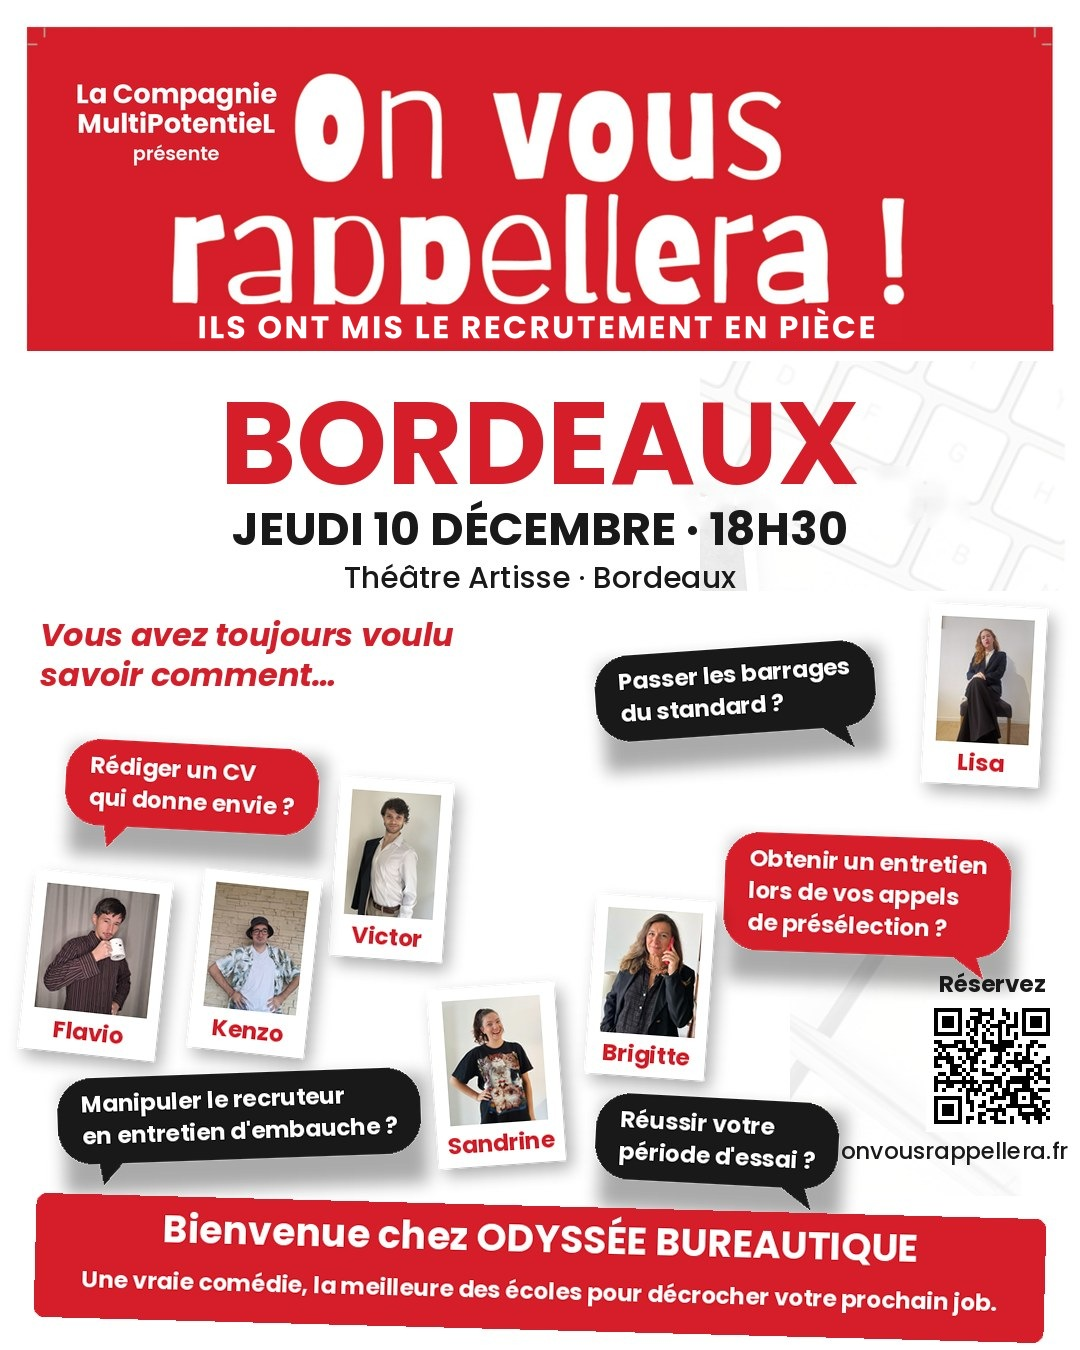
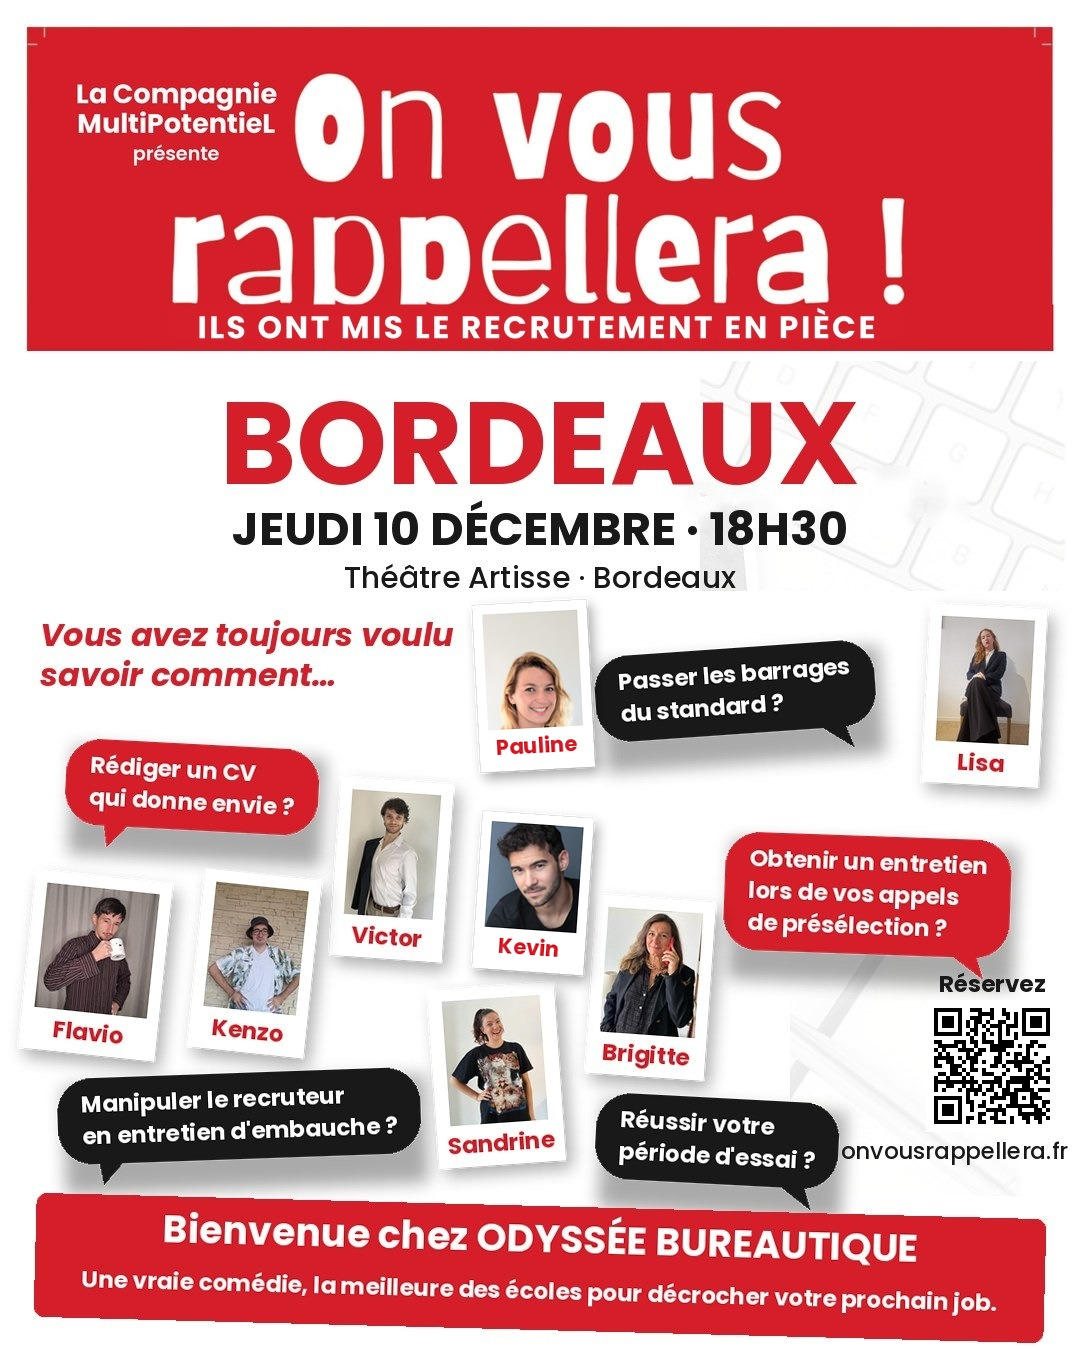
Affiches Bordeaux : ajout de Pauline et Kevin
Claude-Session: https://claude.ai/code/session_01Mm1mn477FPmfympm7mpipM

Changed region(s): [[0.4278, 0.4356, 0.5806, 0.7467]]

diff --git a/affiches.html b/affiches.html
@@ -1,3 +1,3 @@
 <!doctype html><html lang="fr"><head><meta charset="utf-8"><meta name="viewport" content="width=device-width,initial-scale=1"><meta name="robots" content="noindex"><title>Les affiches des troupes — On Vous Rappellera</title>
 <style>body{margin:0;background:#fff;color:#191919;font-family:Poppins,Arial,sans-serif}main{max-width:1180px;margin:0 auto;padding:24px 16px 60px}h1{color:#d51e29;font-size:1.7rem;margin:.2rem 0 .3rem}p.intro{margin:0 0 1.6rem;color:#4a463f}.grid{display:grid;grid-template-columns:repeat(auto-fill,minmax(320px,1fr));gap:28px}figure{margin:0}figure h2{font-size:1.05rem;margin:0 0 .5rem;color:#d51e29}figure h2 span{color:#191919;font-weight:600}img{width:100%;height:auto;display:block;border:1px solid #ddd;border-radius:6px}figcaption{margin-top:.45rem}figcaption a{color:#0b57d0;text-decoration:underline}@media(max-width:700px){.grid{grid-template-columns:1fr}}</style></head>
-<body><main><h1>Les affiches de <b>ON VOUS RAPPELLERA</b></h1><p class="intro">Une affiche par représentation, avec la troupe qui joue ce soir-là. Cliquez sur une affiche pour l'ouvrir en grand, ou téléchargez-la pour la partager.</p><div class="grid"><figure><h2>TOULOUSE <span>Mercredi 2 décembre · 20h</span></h2><a href="assets/affiches/affiche-toulouse-0212-20h.jpg" target="_blank" rel="noopener"><img src="assets/affiches/affiche-toulouse-0212-20h.jpg" alt="Affiche TOULOUSE Mercredi 2 décembre · 20h" loading="lazy"></a><figcaption><a href="assets/affiches/affiche-toulouse-0212-20h.jpg" download>Télécharger l'affiche</a></figcaption></figure><figure><h2>RENNES <span>Mercredi 9 décembre · 20h</span></h2><a href="assets/affiches/affiche-rennes-0912-20h.jpg" target="_blank" rel="noopener"><img src="assets/affiches/affiche-rennes-0912-20h.jpg" alt="Affiche RENNES Mercredi 9 décembre · 20h" loading="lazy"></a><figcaption><a href="assets/affiches/affiche-rennes-0912-20h.jpg" download>Télécharger l'affiche</a></figcaption></figure><figure><h2>BORDEAUX <span>Jeudi 10 décembre · 18h30</span></h2><a href="assets/affiches/affiche-bordeaux-1012-1830.jpg" target="_blank" rel="noopener"><img src="assets/affiches/affiche-bordeaux-1012-1830.jpg" alt="Affiche BORDEAUX Jeudi 10 décembre · 18h30" loading="lazy"></a><figcaption><a href="assets/affiches/affiche-bordeaux-1012-1830.jpg" download>Télécharger l'affiche</a></figcaption></figure><figure><h2>BORDEAUX <span>Jeudi 10 décembre · 20h30</span></h2><a href="assets/affiches/affiche-bordeaux-1012-2030.jpg" target="_blank" rel="noopener"><img src="assets/affiches/affiche-bordeaux-1012-2030.jpg" alt="Affiche BORDEAUX Jeudi 10 décembre · 20h30" loading="lazy"></a><figcaption><a href="assets/affiches/affiche-bordeaux-1012-2030.jpg" download>Télécharger l'affiche</a></figcaption></figure><figure><h2>PARIS <span>Samedi 12 décembre · 21h30</span></h2><a href="assets/affiches/affiche-paris-1212-2130.jpg?v=5" target="_blank" rel="noopener"><img src="assets/affiches/affiche-paris-1212-2130.jpg?v=5" alt="Affiche PARIS Samedi 12 décembre · 21h30 — troupe Esprit d’équipe" loading="lazy"></a><figcaption><a href="assets/affiches/affiche-paris-1212-2130.jpg?v=5" download>Télécharger l'affiche</a></figcaption></figure><figure><h2>LYON <span>Mercredi 16 décembre · 19h</span></h2><a href="assets/affiches/affiche-lyon-1612-19h.jpg?v=20261020" target="_blank" rel="noopener"><img src="assets/affiches/affiche-lyon-1612-19h.jpg?v=20261020" alt="Affiche LYON Mercredi 16 décembre · 19h" loading="lazy"></a><figcaption><a href="assets/affiches/affiche-lyon-1612-19h.jpg?v=20261020" download>Télécharger l'affiche</a></figcaption></figure><figure><h2>LYON <span>Mercredi 16 décembre · 21h</span></h2><a href="assets/affiches/affiche-lyon-1612-21h.jpg?v=20261020" target="_blank" rel="noopener"><img src="assets/affiches/affiche-lyon-1612-21h.jpg?v=20261020" alt="Affiche LYON Mercredi 16 décembre · 21h" loading="lazy"></a><figcaption><a href="assets/affiches/affiche-lyon-1612-21h.jpg?v=20261020" download>Télécharger l'affiche</a></figcaption></figure><figure><h2>BORDEAUX <span>Jeudi 17 décembre · 18h30</span></h2><a href="assets/affiches/affiche-bordeaux-1712-1830.jpg" target="_blank" rel="noopener"><img src="assets/affiches/affiche-bordeaux-1712-1830.jpg" alt="Affiche BORDEAUX Jeudi 17 décembre · 18h30" loading="lazy"></a><figcaption><a href="assets/affiches/affiche-bordeaux-1712-1830.jpg" download>Télécharger l'affiche</a></figcaption></figure><figure><h2>BORDEAUX <span>Jeudi 17 décembre · 20h30</span></h2><a href="assets/affiches/affiche-bordeaux-1712-2030.jpg" target="_blank" rel="noopener"><img src="assets/affiches/affiche-bordeaux-1712-2030.jpg" alt="Affiche BORDEAUX Jeudi 17 décembre · 20h30" loading="lazy"></a><figcaption><a href="assets/affiches/affiche-bordeaux-1712-2030.jpg" download>Télécharger l'affiche</a></figcaption></figure><figure><h2>PARIS <span>Vendredi 18 décembre · 19h30</span></h2><a href="assets/affiches/affiche-paris-1812-1930.jpg?v=5" target="_blank" rel="noopener"><img src="assets/affiches/affiche-paris-1812-1930.jpg?v=5" alt="Affiche PARIS Vendredi 18 décembre · 19h30 — troupe Esprit d’équipe" loading="lazy"></a><figcaption><a href="assets/affiches/affiche-paris-1812-1930.jpg?v=5" download>Télécharger l'affiche</a></figcaption></figure><figure><h2>NANTES <span>Mardi 19 janvier · 21h</span></h2><a href="assets/affiches/affiche-nantes-1901-21h.jpg" target="_blank" rel="noopener"><img src="assets/affiches/affiche-nantes-1901-21h.jpg" alt="Affiche NANTES Mardi 19 janvier · 21h" loading="lazy"></a><figcaption><a href="assets/affiches/affiche-nantes-1901-21h.jpg" download>Télécharger l'affiche</a></figcaption></figure><figure><h2>MONTPELLIER <span>Date à venir</span></h2><a href="assets/troupes/troupe-montpellier.jpg" target="_blank" rel="noopener"><img src="assets/troupes/troupe-montpellier.jpg" alt="La troupe de Montpellier" loading="lazy"></a><figcaption>L'affiche sera publiée dès que la date et la salle seront fixées.</figcaption></figure><figure><h2>PARIS <span>Troupe Engagement · date à venir</span></h2><a href="assets/troupes/troupe-paris-engagement.jpg" target="_blank" rel="noopener"><img src="assets/troupes/troupe-paris-engagement.jpg" alt="La troupe Engagement, à Paris" loading="lazy"></a><figcaption>L'affiche sera publiée dès que la date et la salle seront fixées.</figcaption></figure><figure><h2>PARIS <span>Troupe Honnêteté · date à venir</span></h2><a href="assets/troupes/troupe-paris-honnetete.jpg" target="_blank" rel="noopener"><img src="assets/troupes/troupe-paris-honnetete.jpg" alt="La troupe Honnêteté, à Paris" loading="lazy"></a><figcaption>L'affiche sera publiée dès que la date et la salle seront fixées.</figcaption></figure></div></main></body></html>
+<body><main><h1>Les affiches de <b>ON VOUS RAPPELLERA</b></h1><p class="intro">Une affiche par représentation, avec la troupe qui joue ce soir-là. Cliquez sur une affiche pour l'ouvrir en grand, ou téléchargez-la pour la partager.</p><div class="grid"><figure><h2>TOULOUSE <span>Mercredi 2 décembre · 20h</span></h2><a href="assets/affiches/affiche-toulouse-0212-20h.jpg" target="_blank" rel="noopener"><img src="assets/affiches/affiche-toulouse-0212-20h.jpg" alt="Affiche TOULOUSE Mercredi 2 décembre · 20h" loading="lazy"></a><figcaption><a href="assets/affiches/affiche-toulouse-0212-20h.jpg" download>Télécharger l'affiche</a></figcaption></figure><figure><h2>RENNES <span>Mercredi 9 décembre · 20h</span></h2><a href="assets/affiches/affiche-rennes-0912-20h.jpg" target="_blank" rel="noopener"><img src="assets/affiches/affiche-rennes-0912-20h.jpg" alt="Affiche RENNES Mercredi 9 décembre · 20h" loading="lazy"></a><figcaption><a href="assets/affiches/affiche-rennes-0912-20h.jpg" download>Télécharger l'affiche</a></figcaption></figure><figure><h2>BORDEAUX <span>Jeudi 10 décembre · 18h30</span></h2><a href="assets/affiches/affiche-bordeaux-1012-1830.jpg?v=2" target="_blank" rel="noopener"><img src="assets/affiches/affiche-bordeaux-1012-1830.jpg?v=2" alt="Affiche BORDEAUX Jeudi 10 décembre · 18h30" loading="lazy"></a><figcaption><a href="assets/affiches/affiche-bordeaux-1012-1830.jpg?v=2" download>Télécharger l'affiche</a></figcaption></figure><figure><h2>BORDEAUX <span>Jeudi 10 décembre · 20h30</span></h2><a href="assets/affiches/affiche-bordeaux-1012-2030.jpg?v=2" target="_blank" rel="noopener"><img src="assets/affiches/affiche-bordeaux-1012-2030.jpg?v=2" alt="Affiche BORDEAUX Jeudi 10 décembre · 20h30" loading="lazy"></a><figcaption><a href="assets/affiches/affiche-bordeaux-1012-2030.jpg?v=2" download>Télécharger l'affiche</a></figcaption></figure><figure><h2>PARIS <span>Samedi 12 décembre · 21h30</span></h2><a href="assets/affiches/affiche-paris-1212-2130.jpg?v=5" target="_blank" rel="noopener"><img src="assets/affiches/affiche-paris-1212-2130.jpg?v=5" alt="Affiche PARIS Samedi 12 décembre · 21h30 — troupe Esprit d’équipe" loading="lazy"></a><figcaption><a href="assets/affiches/affiche-paris-1212-2130.jpg?v=5" download>Télécharger l'affiche</a></figcaption></figure><figure><h2>LYON <span>Mercredi 16 décembre · 19h</span></h2><a href="assets/affiches/affiche-lyon-1612-19h.jpg?v=20261020" target="_blank" rel="noopener"><img src="assets/affiches/affiche-lyon-1612-19h.jpg?v=20261020" alt="Affiche LYON Mercredi 16 décembre · 19h" loading="lazy"></a><figcaption><a href="assets/affiches/affiche-lyon-1612-19h.jpg?v=20261020" download>Télécharger l'affiche</a></figcaption></figure><figure><h2>LYON <span>Mercredi 16 décembre · 21h</span></h2><a href="assets/affiches/affiche-lyon-1612-21h.jpg?v=20261020" target="_blank" rel="noopener"><img src="assets/affiches/affiche-lyon-1612-21h.jpg?v=20261020" alt="Affiche LYON Mercredi 16 décembre · 21h" loading="lazy"></a><figcaption><a href="assets/affiches/affiche-lyon-1612-21h.jpg?v=20261020" download>Télécharger l'affiche</a></figcaption></figure><figure><h2>BORDEAUX <span>Jeudi 17 décembre · 18h30</span></h2><a href="assets/affiches/affiche-bordeaux-1712-1830.jpg?v=2" target="_blank" rel="noopener"><img src="assets/affiches/affiche-bordeaux-1712-1830.jpg?v=2" alt="Affiche BORDEAUX Jeudi 17 décembre · 18h30" loading="lazy"></a><figcaption><a href="assets/affiches/affiche-bordeaux-1712-1830.jpg?v=2" download>Télécharger l'affiche</a></figcaption></figure><figure><h2>BORDEAUX <span>Jeudi 17 décembre · 20h30</span></h2><a href="assets/affiches/affiche-bordeaux-1712-2030.jpg?v=2" target="_blank" rel="noopener"><img src="assets/affiches/affiche-bordeaux-1712-2030.jpg?v=2" alt="Affiche BORDEAUX Jeudi 17 décembre · 20h30" loading="lazy"></a><figcaption><a href="assets/affiches/affiche-bordeaux-1712-2030.jpg?v=2" download>Télécharger l'affiche</a></figcaption></figure><figure><h2>PARIS <span>Vendredi 18 décembre · 19h30</span></h2><a href="assets/affiches/affiche-paris-1812-1930.jpg?v=5" target="_blank" rel="noopener"><img src="assets/affiches/affiche-paris-1812-1930.jpg?v=5" alt="Affiche PARIS Vendredi 18 décembre · 19h30 — troupe Esprit d’équipe" loading="lazy"></a><figcaption><a href="assets/affiches/affiche-paris-1812-1930.jpg?v=5" download>Télécharger l'affiche</a></figcaption></figure><figure><h2>NANTES <span>Mardi 19 janvier · 21h</span></h2><a href="assets/affiches/affiche-nantes-1901-21h.jpg" target="_blank" rel="noopener"><img src="assets/affiches/affiche-nantes-1901-21h.jpg" alt="Affiche NANTES Mardi 19 janvier · 21h" loading="lazy"></a><figcaption><a href="assets/affiches/affiche-nantes-1901-21h.jpg" download>Télécharger l'affiche</a></figcaption></figure><figure><h2>MONTPELLIER <span>Date à venir</span></h2><a href="assets/troupes/troupe-montpellier.jpg" target="_blank" rel="noopener"><img src="assets/troupes/troupe-montpellier.jpg" alt="La troupe de Montpellier" loading="lazy"></a><figcaption>L'affiche sera publiée dès que la date et la salle seront fixées.</figcaption></figure><figure><h2>PARIS <span>Troupe Engagement · date à venir</span></h2><a href="assets/troupes/troupe-paris-engagement.jpg" target="_blank" rel="noopener"><img src="assets/troupes/troupe-paris-engagement.jpg" alt="La troupe Engagement, à Paris" loading="lazy"></a><figcaption>L'affiche sera publiée dès que la date et la salle seront fixées.</figcaption></figure><figure><h2>PARIS <span>Troupe Honnêteté · date à venir</span></h2><a href="assets/troupes/troupe-paris-honnetete.jpg" target="_blank" rel="noopener"><img src="assets/troupes/troupe-paris-honnetete.jpg" alt="La troupe Honnêteté, à Paris" loading="lazy"></a><figcaption>L'affiche sera publiée dès que la date et la salle seront fixées.</figcaption></figure></div></main></body></html>
